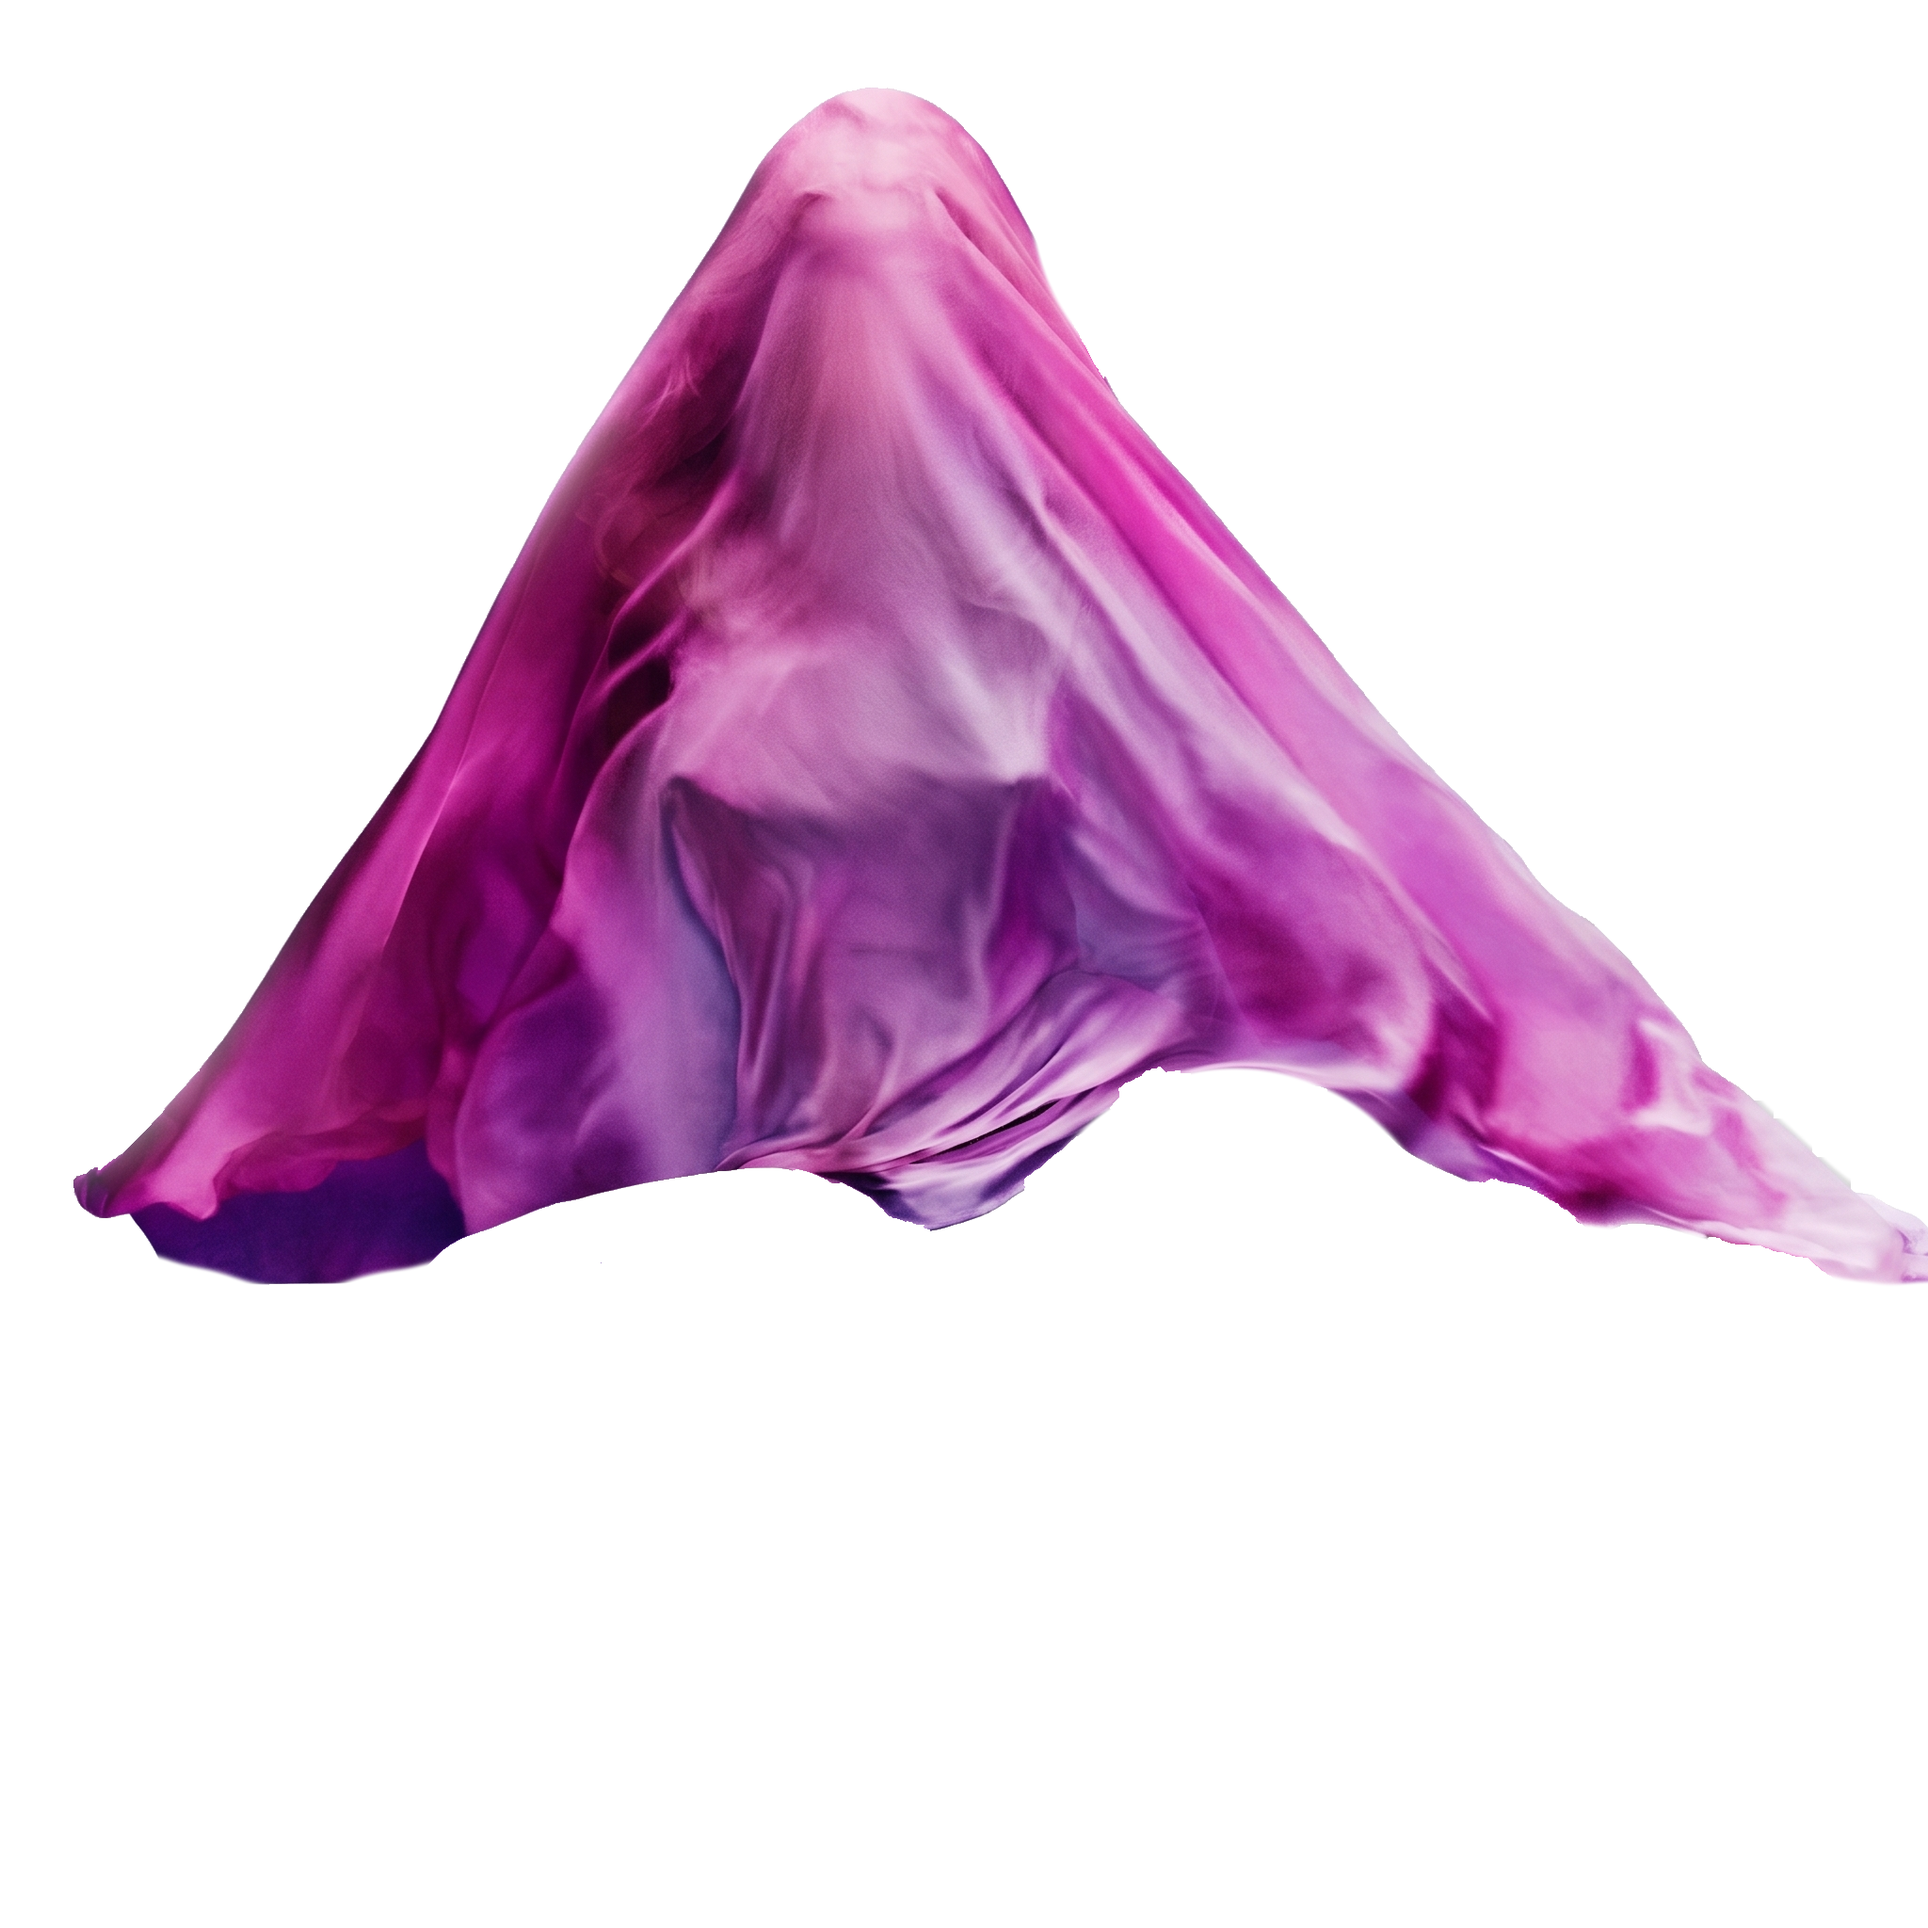
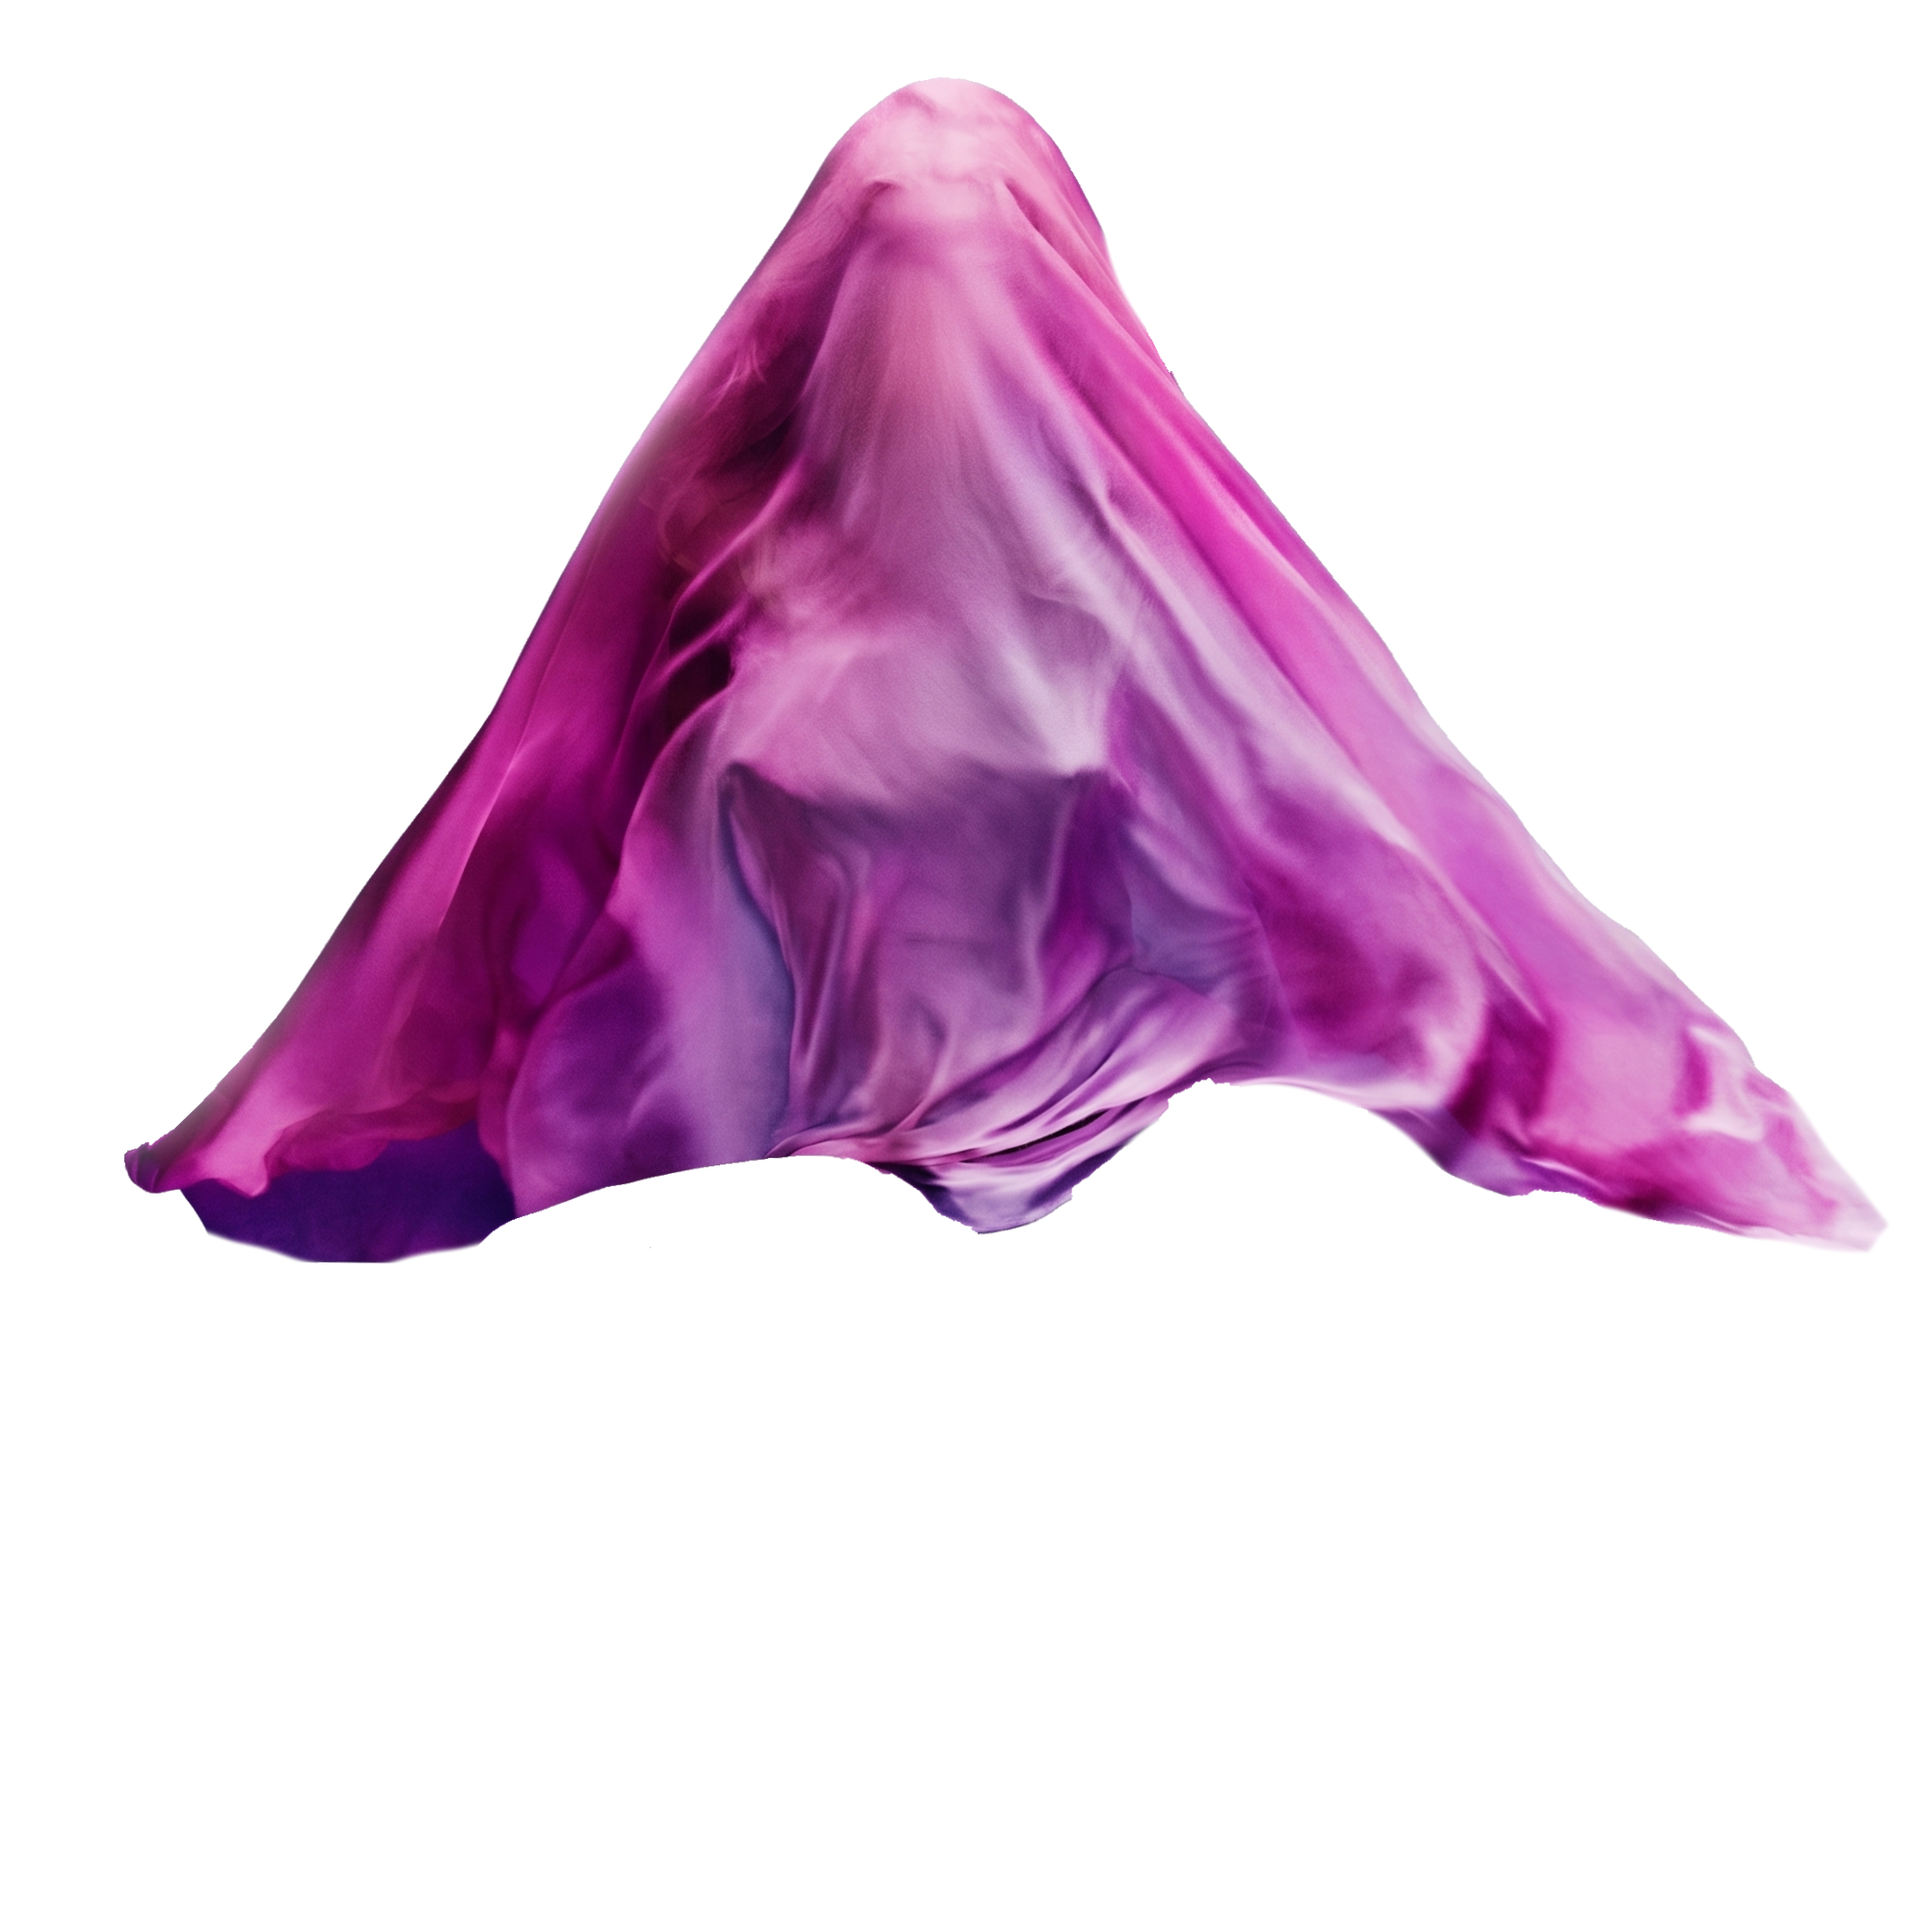
fix: Se ajusta la posición y espaciado del título en el hero
- Se recalibra la distancia vertical e interlineado del bloque principal ('50', 'ROQUE', '¡El festejo!').

- Se eleva la posición del hero y la tela para un mejor encuadre superior.

- Se añade og-sobre.jpg optimizada a 104 KB para la previsualización de enlaces en WhatsApp.

Changed region(s): [[0.0312, 0.0312, 1.0, 0.6875]]

diff --git a/css/base.css b/css/base.css
@@ -47,12 +47,13 @@ body {
 /* Hero y Tela */
 .hero {
   position: relative;
+  width: 100%;
   min-height: auto;
   padding-bottom: 2vh;
   display: flex;
   flex-direction: column;
   align-items: center;
-  padding-top: max(85px, 10vh);
+  padding-top: max(65px, 6vh);
 }
 
 .tela-layer {
@@ -95,9 +96,9 @@ body.invitacion-abierta .tela-layer img {
 }
 
 .tri-wrap {
-  position: relative; width: min(540px, 92vw); margin: -80% auto 0; z-index: 1;
+  position: relative; width: min(540px, 92vw); margin: -85% auto 0; z-index: 1;
 }
-@media (max-width: 600px) { .tri-wrap { margin: -82% auto 0; } }
+@media (max-width: 600px) { .tri-wrap { margin: -87% auto 0; } }
 
 .tri-shape { height: 230px; }
 .tri-shape.left { float: left; width: 50%; shape-outside: polygon(0% 0%, 100% 0%, 0% 100%); }
@@ -108,9 +109,9 @@ body.invitacion-abierta .tela-layer img {
 /* Número 50 en la cima del triángulo con efecto glow intermitente suave */
 .eyebrow {
   font-family: 'Anton', sans-serif; font-weight: 400;
-  font-size: clamp(52px, 15vw, 78px); letter-spacing: 0.05em; color: var(--champagne);
+  font-size: clamp(52px, 15vw, 80px); letter-spacing: 0.05em; color: var(--champagne);
   text-shadow: 0 2px 12px rgba(0, 0, 0, 0.95), 0 0 30px rgba(231, 201, 138, 0.5), 0 0 10px rgba(22, 14, 34, 1);
-  opacity: 0; line-height: 1;
+  opacity: 0; line-height: 1; margin-bottom: 0;
   animation: fadeUp 0.8s ease forwards 0.3s, glow50 3.6s ease-in-out infinite 1.1s;
 }
 
@@ -126,22 +127,23 @@ body.invitacion-abierta .tela-layer img {
 }
 
 h1.name {
-  font-family: 'Anton', sans-serif; font-weight: 400; font-size: clamp(48px, 14vw, 74px);
+  font-family: 'Anton', sans-serif; font-weight: 400; font-size: clamp(50px, 14.5vw, 80px);
   letter-spacing: 0.04em; color: var(--paper); line-height: 0.95; opacity: 0;
+  margin: 2px 0 2px;
   text-shadow: 0 2px 12px rgba(0, 0, 0, 0.95), 0 0 15px rgba(22, 14, 34, 0.9);
   animation: fadeUp 0.9s ease forwards 0.5s;
 }
 
 .subtitle {
   font-family: 'EB Garamond', serif; font-style: italic; font-weight: 600;
-  font-size: clamp(22px, 6vw, 30px); letter-spacing: 0.05em; margin-top: 2px;
-  color: var(--champagne);
+  font-size: clamp(23px, 6.2vw, 30px); letter-spacing: 0.05em; margin-top: 2px;
+  color: var(--champagne); line-height: 1.15;
   text-shadow: 0 2px 12px rgba(0, 0, 0, 0.95), 0 0 20px rgba(22, 14, 34, 0.9);
   opacity: 0; animation: fadeUp 0.9s ease forwards 0.7s;
 }
 
 .tagline {
-  margin-top: 14px; font-family: 'EB Garamond', serif; font-style: italic;
+  margin-top: 10px; font-family: 'EB Garamond', serif; font-style: italic;
   font-size: clamp(17px, 5.2vw, 23px); font-weight: 600; letter-spacing: 0.04em;
   line-height: 1.3; color: var(--paper);
   text-shadow: 0 2px 12px rgba(0, 0, 0, 0.95), 0 0 15px rgba(22, 14, 34, 0.9);

diff --git a/index.html b/index.html
@@ -10,13 +10,13 @@
   <meta name="title" content="Roque 50 años">
   <meta name="description" content="No cumplo 50, cumplo 18 + 32 de experiencia · Presioná para abrir tu invitación ✉">
   <meta property="og:type" content="website">
-  <meta property="og:url" content="https://jorgetrip.github.io/Roque50/">
+  <meta property="og:url" content="https://roque50.netlify.app/">
   <meta property="og:title" content="Roque 50 años">
   <meta property="og:description"
     content="No cumplo 50, cumplo 18 + 32 de experiencia · Presioná para abrir tu invitación ✉">
-  <meta property="og:image" content="https://jorgetrip.github.io/Roque50/imagenes/og-sobre.png">
-  <meta property="og:image:secure_url" content="https://jorgetrip.github.io/Roque50/imagenes/og-sobre.png">
-  <meta property="og:image:type" content="image/png">
+  <meta property="og:image" content="https://roque50.netlify.app/imagenes/og-sobre.jpg">
+  <meta property="og:image:secure_url" content="https://roque50.netlify.app/imagenes/og-sobre.jpg">
+  <meta property="og:image:type" content="image/jpeg">
   <meta property="og:image:width" content="1200">
   <meta property="og:image:height" content="630">
   <meta property="og:site_name" content="Roque 50 años">
@@ -25,7 +25,7 @@
   <meta name="twitter:title" content="Roque 50 años">
   <meta name="twitter:description"
     content="No cumplo 50, cumplo 18 + 32 de experiencia · Presioná para abrir tu invitación ✉">
-  <meta name="twitter:image" content="https://jorgetrip.github.io/Roque50/imagenes/og-sobre.png">
+  <meta name="twitter:image" content="https://roque50.netlify.app/imagenes/og-sobre.jpg">
   <link rel="preconnect" href="https://fonts.googleapis.com">
   <link rel="preconnect" href="https://fonts.gstatic.com" crossorigin>
   <link
